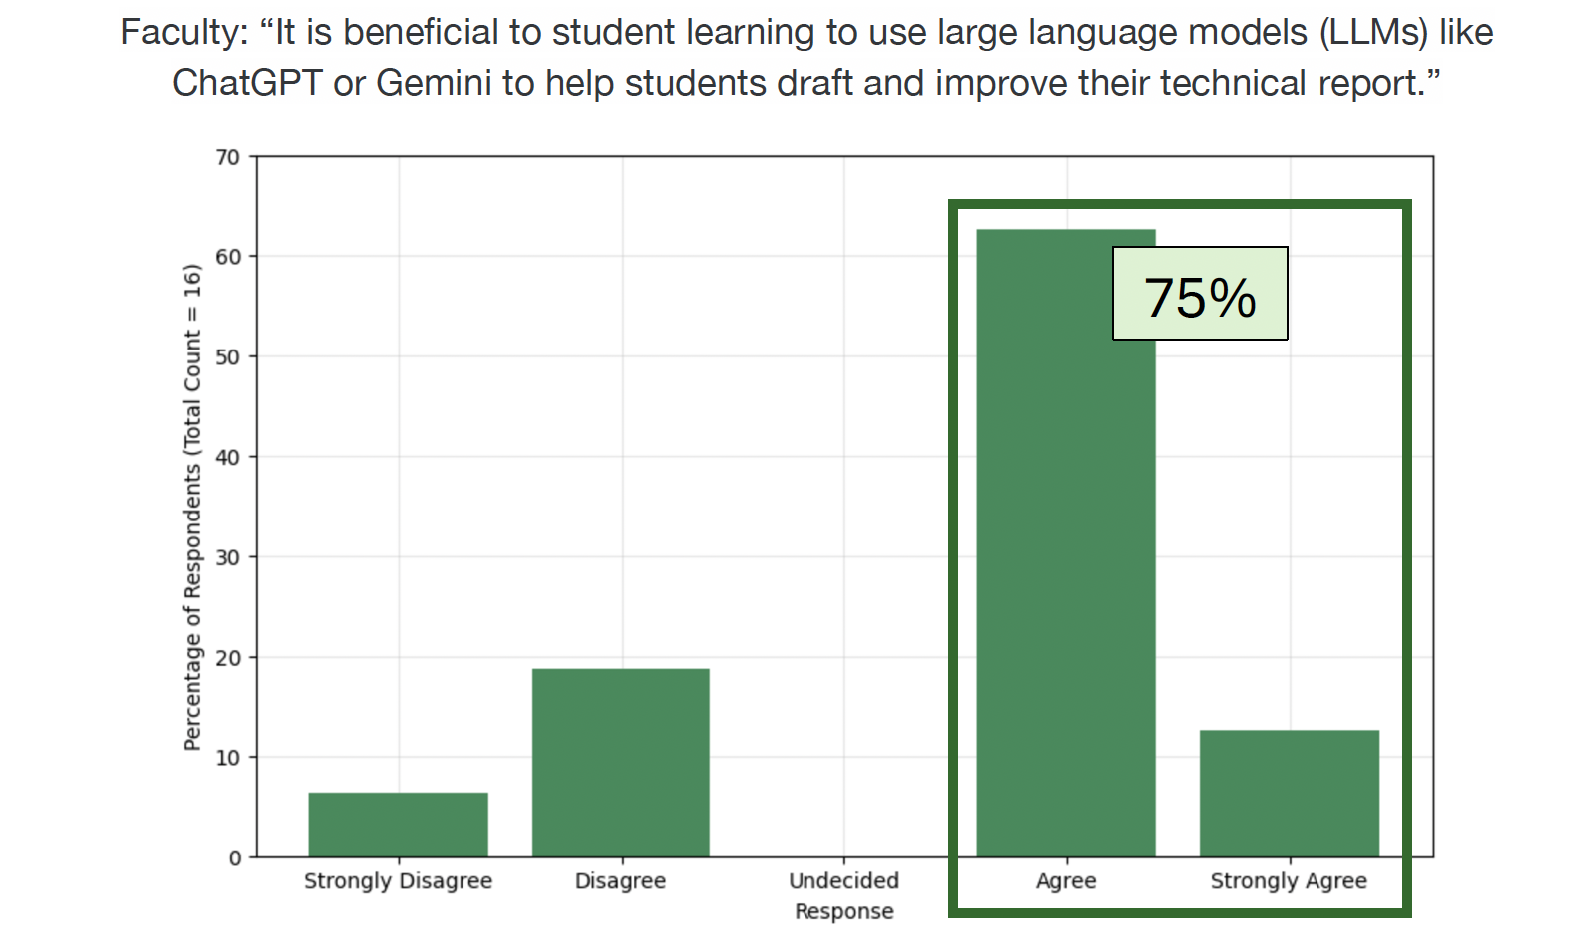
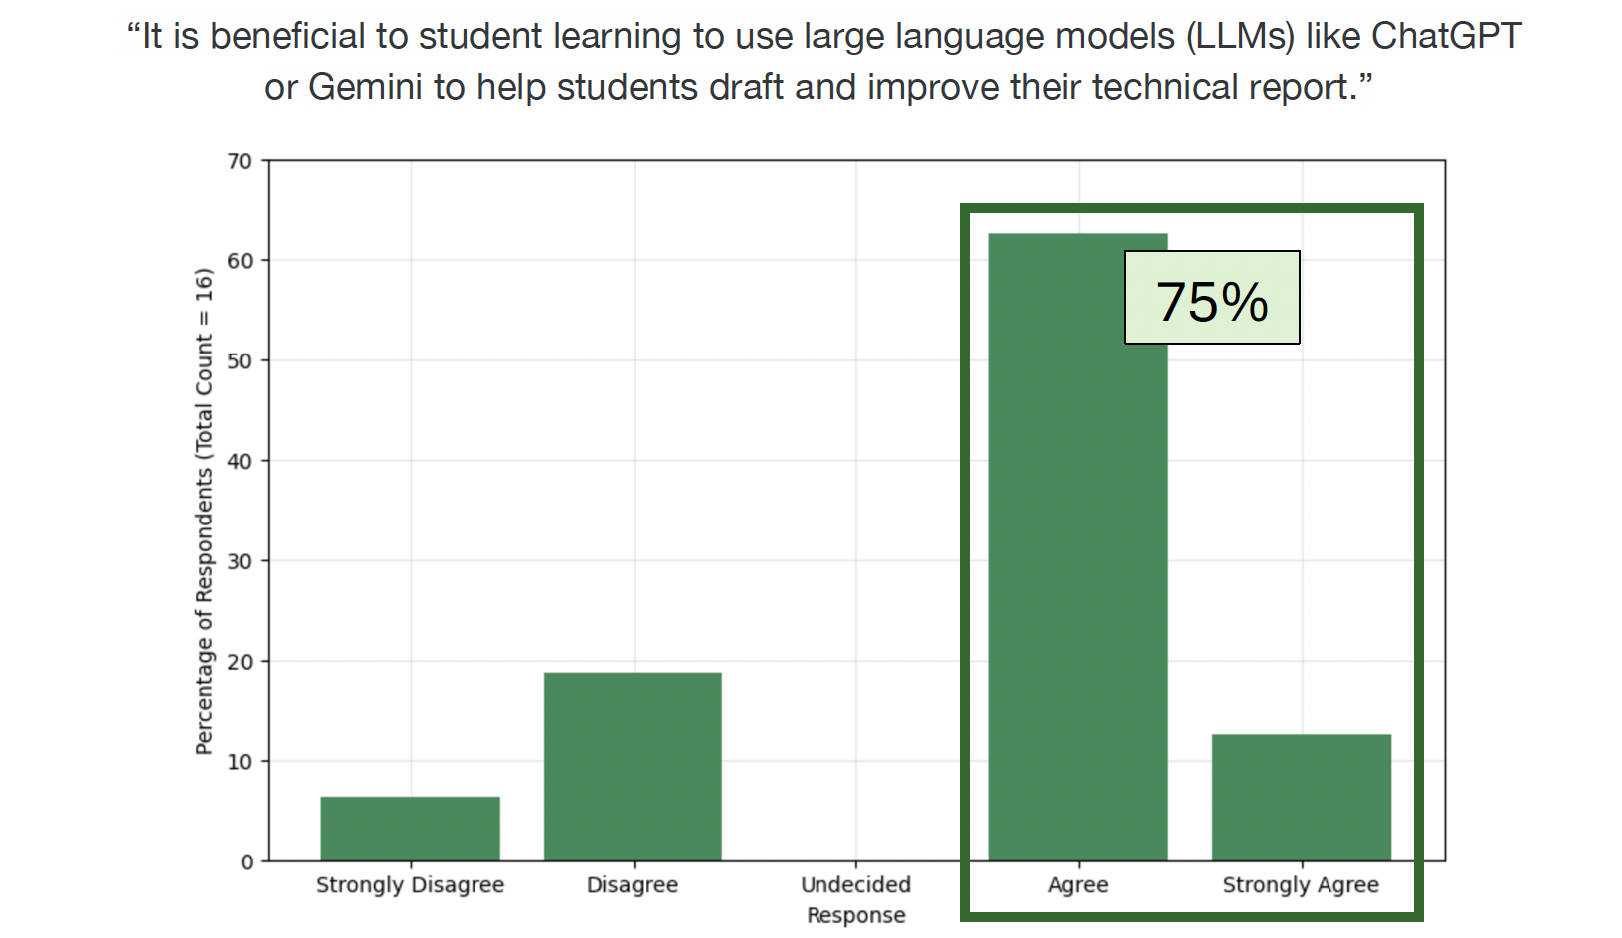
update

diff --git a/index.html b/index.html
@@ -382,7 +382,7 @@
 						<h3>Faculty Survey</h3>
 					</section>
 					<section data-transition="convex" data-background="#548A9E">
-						<p>A majority agreed LLM's can be helpful to learning</p>
+						<p>A majority agreed LLM's can be helpful to student learning</p>
 						<img class="r-frame" style="background: rgba(255,255,255,0.1);" width="900"  data-src="https://raw.githubusercontent.com/clint-bg/AITechnicalWriting/refs/heads/gh-pages/fQ2.png" alt="second question">
 					</section>
 
